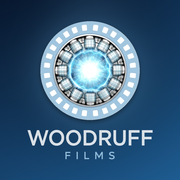
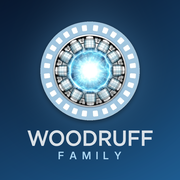
Rename Woodruff Films to Woodruff Family everywhere
- App name, sidebar wordmark (WOODRUFF / FAMILY), pop-ups, phone app and
  its Home Screen name, sign-in pages, notifications, download folders,
  gallery, README.
- App icon, TV banner and iPhone icons redrawn with "FAMILY" in the same
  spaced light-blue style as the original wordmark.
- Releases publish WoodruffFamily.apk (2.0); the older WoodruffFilms /
  WoodruffPictures / WoodruffShows / TVExplorer links keep working.
- "Films" stays only as a Drive folder name the Movies tab recognizes.

Claude-Session: https://claude.ai/code/session_01JJYRKoHJpaVe9D6PWUGDn2

diff --git a/app/src/main/java/com/woodruff/tvexplorer/server/Companion.kt b/app/src/main/java/com/woodruff/tvexplorer/server/Companion.kt
@@ -62,9 +62,9 @@ class CompanionRoutes(private val ctx: Context) {
             return page("Google Photos connected ✓", "Look at your TV: scan the next QR code to pick photos.")
         }
         if (attempt.grant == GoogleAuth.Grant.NEST) {
-            return page("Cameras connected ✓", "Look at your TV: Woodruff Films is loading your cameras.")
+            return page("Cameras connected ✓", "Look at your TV: Woodruff Family is loading your cameras.")
         }
-        return page("You're signed in ✓", "Look at your TV: Woodruff Films is loading your Google Drive.")
+        return page("You're signed in ✓", "Look at your TV: Woodruff Family is loading your Google Drive.")
     }
 
     fun handle(s: IHTTPSession): Response? = when {
@@ -241,7 +241,7 @@ class CompanionRoutes(private val ctx: Context) {
         if (com.woodruff.tvexplorer.notify.AppVisibility.foreground || android.provider.Settings.canDrawOverlays(ctx)) {
             ctx.startActivity(intent)
         } else {
-            Notices.post(ctx, NoticeSource.PHONE, "Ready to play", "Open Woodruff Films to start it, or allow \"Display over other apps\" in Settings.")
+            Notices.post(ctx, NoticeSource.PHONE, "Ready to play", "Open Woodruff Family to start it, or allow \"Display over other apps\" in Settings.")
         }
     }
 
@@ -280,7 +280,7 @@ class CompanionRoutes(private val ctx: Context) {
     private fun page(title: String, body: String) = NanoHTTPD.newFixedLengthResponse(
         Response.Status.OK, "text/html; charset=utf-8",
         """<!doctype html><meta charset="utf-8"><meta name="viewport" content="width=device-width,initial-scale=1">
-        <title>Woodruff Films</title><body style="margin:0;padding:28px;font:17px/1.5 -apple-system,system-ui,sans-serif;background:#0b0d12;color:#f2f4f7">
+        <title>Woodruff Family</title><body style="margin:0;padding:28px;font:17px/1.5 -apple-system,system-ui,sans-serif;background:#0b0d12;color:#f2f4f7">
         <h1 style="font-size:24px;margin:0 0 10px">$title</h1><p style="color:#9aa4b2">$body</p></body>""",
     )
 }

diff --git a/app/src/main/java/com/woodruff/tvexplorer/ui/AppRoot.kt b/app/src/main/java/com/woodruff/tvexplorer/ui/AppRoot.kt
@@ -180,15 +180,15 @@ fun AppRoot(vm: MainViewModel) {
     }
 }
 
-/** Top-left brand: the Woodruff Films reel emblem (transparent outside the ring) and the wordmark. */
+/** Top-left brand: the Woodruff Family reel emblem (transparent outside the ring) and the wordmark. */
 @Composable
 private fun Brand(modifier: Modifier = Modifier) {
     Row(modifier, verticalAlignment = Alignment.CenterVertically) {
-        Image(painterResource(R.drawable.brand_logo), contentDescription = "Woodruff Films logo", modifier = Modifier.size(52.dp))
+        Image(painterResource(R.drawable.brand_logo), contentDescription = "Woodruff Family logo", modifier = Modifier.size(52.dp))
         Spacer(Modifier.width(12.dp))
         Column {
             Text("WOODRUFF", style = MaterialTheme.typography.titleMedium, fontWeight = FontWeight.Bold, color = Palette.text, letterSpacing = 1.sp)
-            Text("FILMS", style = MaterialTheme.typography.labelMedium, color = Palette.accent, letterSpacing = 6.sp)
+            Text("FAMILY", style = MaterialTheme.typography.labelMedium, color = Palette.accent, letterSpacing = 6.sp)
         }
     }
 }
@@ -246,7 +246,7 @@ private fun NoticeBanner(notice: Notice?, modifier: Modifier, onOpen: () -> Unit
         ) {
             Column(Modifier.padding(horizontal = 20.dp, vertical = 14.dp)) {
                 Text(
-                    when (n.source) { NoticeSource.PHONE -> "FROM YOUR PHONE"; NoticeSource.MAIL -> "NEW MAIL"; NoticeSource.SYSTEM -> "WOODRUFF FILMS" },
+                    when (n.source) { NoticeSource.PHONE -> "FROM YOUR PHONE"; NoticeSource.MAIL -> "NEW MAIL"; NoticeSource.SYSTEM -> "WOODRUFF FAMILY" },
                     style = MaterialTheme.typography.labelSmall, color = Palette.accent,
                 )
                 Text(n.title, style = MaterialTheme.typography.titleMedium, maxLines = 2)

diff --git a/app/src/main/assets/web/index.html b/app/src/main/assets/web/index.html
@@ -4,14 +4,14 @@
 <meta charset="utf-8">
 <meta name="viewport" content="width=device-width, initial-scale=1, viewport-fit=cover">
 <meta name="apple-mobile-web-app-capable" content="yes">
-<meta name="apple-mobile-web-app-title" content="Woodruff Films">
+<meta name="apple-mobile-web-app-title" content="Woodruff Family">
 <meta name="apple-mobile-web-app-status-bar-style" content="default">
 <meta name="mobile-web-app-capable" content="yes">
 <meta name="theme-color" content="#5592bf">
 <link rel="manifest" href="/manifest.webmanifest">
 <link rel="apple-touch-icon" href="/icon-180.png">
 <link rel="icon" href="/icon-180.png">
-<title>Woodruff Films</title>
+<title>Woodruff Family</title>
 <style>
   :root { --bg:#f2f6fa; --card:#fff; --text:#1c1c1e; --muted:#6e6e73; --line:#e5e5ea; --accent:#3a7ab0; --on-accent:#fff; --danger:#d1242f; --ok:#1e9e63; }
   @media (prefers-color-scheme: dark) {
@@ -69,7 +69,7 @@
 </style>
 </head>
 <body>
-<header><div class="brand"><img src="/emblem.png" alt="" width="30" height="30"><span>WOODRUFF <b>FILMS</b></span></div><h1 id="title">Files</h1></header>
+<header><div class="brand"><img src="/emblem.png" alt="" width="30" height="30"><span>WOODRUFF <b>FAMILY</b></span></div><h1 id="title">Files</h1></header>
 
 <!-- FILES -->
 <section id="files">

diff --git a/app/src/main/java/com/woodruff/tvexplorer/cloud/DriveViewModel.kt b/app/src/main/java/com/woodruff/tvexplorer/cloud/DriveViewModel.kt
@@ -194,7 +194,7 @@ class DriveViewModel(app: Application) : AndroidViewModel(app) {
 
     fun download(file: DriveFile) {
         if (opJob?.isActive == true) return say("A download is already running")
-        val dir = File(Environment.getExternalStoragePublicDirectory(Environment.DIRECTORY_DOWNLOADS), "Woodruff Films").apply { mkdirs() }
+        val dir = File(Environment.getExternalStoragePublicDirectory(Environment.DIRECTORY_DOWNLOADS), "Woodruff Family").apply { mkdirs() }
         val dest = FileOperations.uniqueTarget(dir, file.name.replace('/', '_'))
         _state.update { it.copy(operation = Operation("Downloading")) }
         var last = 0L
@@ -205,7 +205,7 @@ class DriveViewModel(app: Application) : AndroidViewModel(app) {
                     val now = System.currentTimeMillis()
                     if (now - last > 150) { last = now; _state.update { it.copy(operation = Operation("Downloading", p)) } }
                 }
-                say("Saved to Downloads/Woodruff Films/${dest.name}")
+                say("Saved to Downloads/Woodruff Family/${dest.name}")
             } catch (e: CancellationException) {
                 say("Download cancelled")
             } catch (e: Exception) {

diff --git a/app/src/main/java/com/woodruff/tvexplorer/ui/theme/Theme.kt b/app/src/main/java/com/woodruff/tvexplorer/ui/theme/Theme.kt
@@ -27,7 +27,7 @@ object Palette {
 
     private fun pick(dark: Long, lightValue: Long) = Color(if (light) lightValue else dark)
 
-    // Cool navy (dark) and blue-white (light) to sit under the Woodruff Films blues.
+    // Cool navy (dark) and blue-white (light) to sit under the Woodruff Family blues.
     val background get() = pick(0xFF060A12, 0xFFF2F6FA)
     val backgroundTop get() = pick(0xFF10213A, 0xFFFFFFFF)
     val surface get() = pick(0xFF0E1726, 0xFFFFFFFF)
@@ -35,7 +35,7 @@ object Palette {
     val outline get() = pick(0xFF253852, 0xFFCCDAE8)
     val text get() = pick(0xFFF2F6FA, 0xFF14202E)
     val muted get() = pick(0xFF93A6BC, 0xFF56677A)
-    // Woodruff Films blue (logo #5592BF): lighter on dark backgrounds, deeper on light ones,
+    // Woodruff Family blue (logo #5592BF): lighter on dark backgrounds, deeper on light ones,
     // so text on and next to it stays readable. Dark mode puts navy text on the light blue.
     val accent get() = pick(0xFF6FB3E6, 0xFF3A7AB0)
     val accentSoft get() = pick(0x336FB3E6, 0x223A7AB0)

diff --git a/app/src/main/java/com/woodruff/tvexplorer/data/AppRepository.kt b/app/src/main/java/com/woodruff/tvexplorer/data/AppRepository.kt
@@ -58,13 +58,13 @@ class AppRepository(private val context: Context) {
     private fun launchIntentAvailable(packageName: String) = launchIntent(packageName) != null
 
     /**
-     * Copies the base APK to Download/Woodruff Films/Apps. Split APKs (app bundles) are only partially
+     * Copies the base APK to Download/Woodruff Family/Apps. Split APKs (app bundles) are only partially
      * captured, which is why the result names the file so the user can check it.
      */
     suspend fun backup(app: AppEntry): File = withContext(Dispatchers.IO) {
         val dir = File(
             Environment.getExternalStoragePublicDirectory(Environment.DIRECTORY_DOWNLOADS),
-            "Woodruff Films/Apps",
+            "Woodruff Family/Apps",
         ).apply { mkdirs() }
         val safeLabel = app.label.replace(Regex("[^A-Za-z0-9 ._-]"), "_")
         val target = FileOperations.uniqueTarget(dir, "$safeLabel ${app.versionName}.apk".trim())

diff --git a/docs/oauth.html b/docs/oauth.html
@@ -4,7 +4,7 @@
 <meta charset="utf-8">
 <meta name="viewport" content="width=device-width, initial-scale=1">
 <meta name="referrer" content="no-referrer">
-<title>Woodruff Films · Google sign-in</title>
+<title>Woodruff Family · Google sign-in</title>
 <style>
   body { margin:0; padding:24px; font:16px/1.5 system-ui,sans-serif; background:#080b10; color:#f2f4f7; }
   h1 { font-size:22px; margin:0 0 12px; } h1:before { content:"▶ "; color:#e5484d; }
@@ -16,7 +16,7 @@
 <p id="msg">Sending your Google approval to the TV.</p>
 <script>
 // Google redirects here after the phone signs in. This page never sees tokens: it only passes the
-// one-time code to the Woodruff Films TV on your home network, which exchanges it itself.
+// one-time code to the Woodruff Family TV on your home network, which exchanges it itself.
 (function () {
   var q = new URLSearchParams(location.search);
   var msg = document.getElementById('msg');

diff --git a/app/src/main/java/com/woodruff/tvexplorer/ui/screens/PermissionScreen.kt b/app/src/main/java/com/woodruff/tvexplorer/ui/screens/PermissionScreen.kt
@@ -48,9 +48,9 @@ fun PermissionScreen(onRecheck: () -> Unit) {
             Text("Allow access to your files", style = MaterialTheme.typography.headlineMedium)
             Text(
                 if (Build.VERSION.SDK_INT >= 30)
-                    "Woodruff Films needs \"All files access\" to browse, copy and manage files on this TV and on USB drives. " +
+                    "Woodruff Family needs \"All files access\" to browse, copy and manage files on this TV and on USB drives. " +
                         "Turn it on in the next screen, then press Back."
-                else "Woodruff Films needs storage permission to browse and manage your files.",
+                else "Woodruff Family needs storage permission to browse and manage your files.",
                 color = Palette.muted,
             )
             Button(

diff --git a/app/src/main/java/com/woodruff/tvexplorer/notify/NoticeOverlay.kt b/app/src/main/java/com/woodruff/tvexplorer/notify/NoticeOverlay.kt
@@ -41,7 +41,7 @@ object NoticeOverlay {
                 setStroke(dp(1), 0x33FFFFFF)
             }
             addView(TextView(app).apply {
-                text = when (n.source) { NoticeSource.PHONE -> "From your phone"; NoticeSource.MAIL -> "New mail"; NoticeSource.SYSTEM -> "Woodruff Films" }
+                text = when (n.source) { NoticeSource.PHONE -> "From your phone"; NoticeSource.MAIL -> "New mail"; NoticeSource.SYSTEM -> "Woodruff Family" }
                 setTextColor(0xFF6FB3E6.toInt()); textSize = 12f; typeface = font ?: Typeface.DEFAULT_BOLD
             })
             addView(TextView(app).apply {

diff --git a/app/src/main/java/com/woodruff/tvexplorer/ui/screens/BrowserDialogs.kt b/app/src/main/java/com/woodruff/tvexplorer/ui/screens/BrowserDialogs.kt
@@ -153,7 +153,7 @@ fun BrowserDialogs(dialog: BrowserDialog, vm: MainViewModel, onDismiss: () -> Un
 
         is BrowserDialog.InstallPermission -> DialogFrame("Allow app installs", onDismiss) {
             Text(
-                "To install APK files, Android needs you to allow Woodruff Films to install unknown apps. " +
+                "To install APK files, Android needs you to allow Woodruff Family to install unknown apps. " +
                     "Turn it on in the next screen, then press Back and choose the APK again.",
                 color = Palette.muted,
             )

diff --git a/docs/ui/index.html b/docs/ui/index.html
@@ -3,7 +3,7 @@
 <head>
 <meta charset="utf-8">
 <meta name="viewport" content="width=device-width, initial-scale=1, viewport-fit=cover">
-<title>Woodruff Films · UI gallery</title>
+<title>Woodruff Family · UI gallery</title>
 <meta name="theme-color" content="#5592bf">
 <link rel="icon" href="../ui/favicon.png">
 <style>
@@ -37,7 +37,7 @@
 </head>
 <body>
 <header>
-  <div class="brand">WOODRUFF <b>FILMS</b></div>
+  <div class="brand">WOODRUFF <b>FAMILY</b></div>
   <h1>UI gallery</h1>
   <p class="sub" id="meta">Loading…</p>
 </header>

diff --git a/app/src/main/java/com/woodruff/tvexplorer/server/TransferService.kt b/app/src/main/java/com/woodruff/tvexplorer/server/TransferService.kt
@@ -130,7 +130,7 @@ class TransferService : Service() {
         val builder = if (Build.VERSION.SDK_INT >= 26) Notification.Builder(this, CHANNEL) else @Suppress("DEPRECATION") Notification.Builder(this)
         return builder
             .setSmallIcon(android.R.drawable.stat_sys_upload)
-            .setContentTitle("Woodruff Films: phone connection is on")
+            .setContentTitle("Woodruff Family: phone connection is on")
             .setContentText(address)
             .setContentIntent(open)
             .setOngoing(true)
